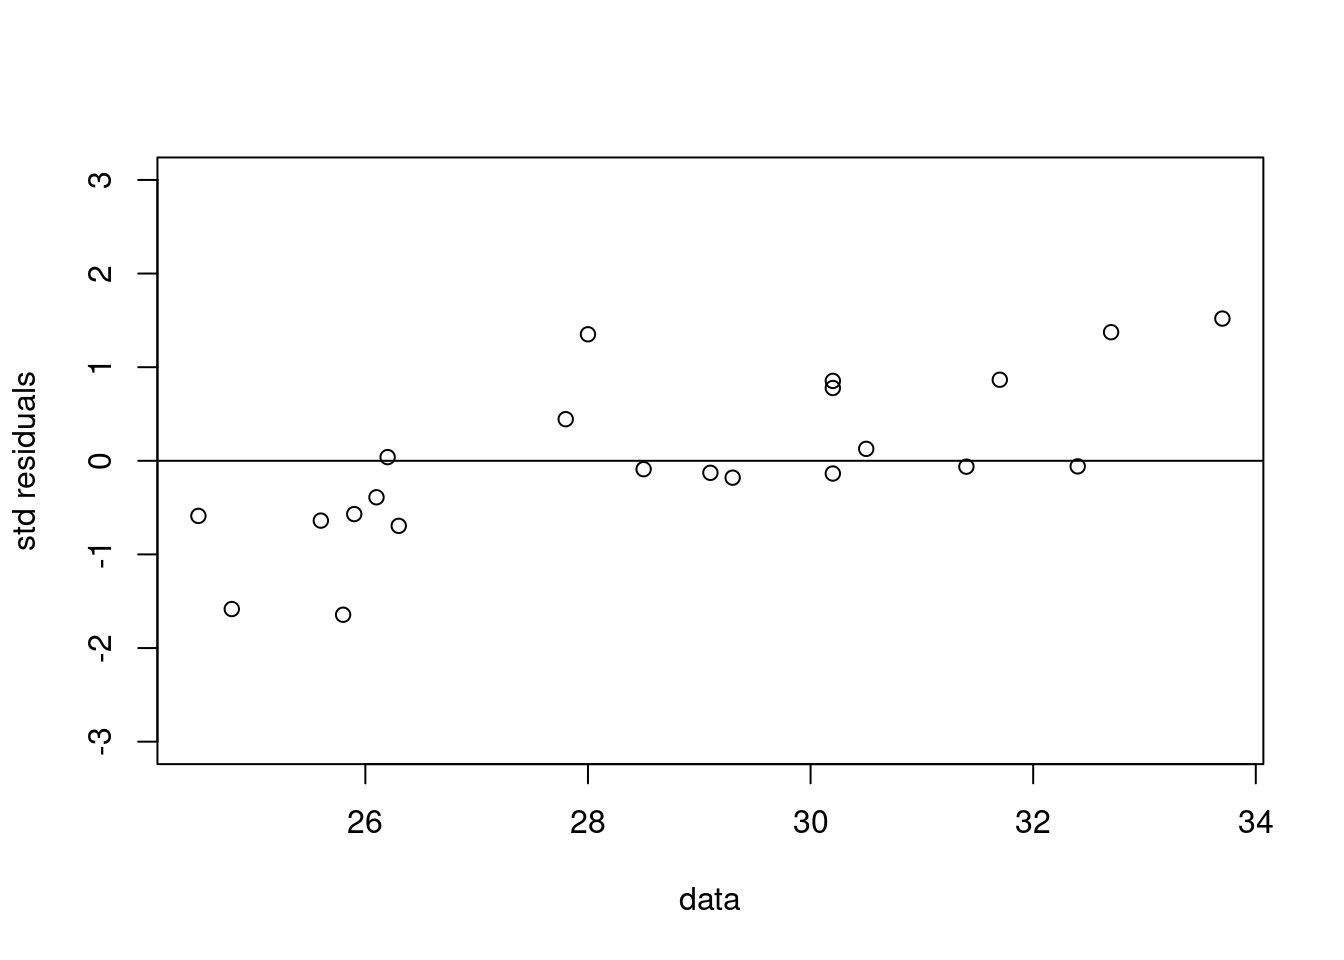
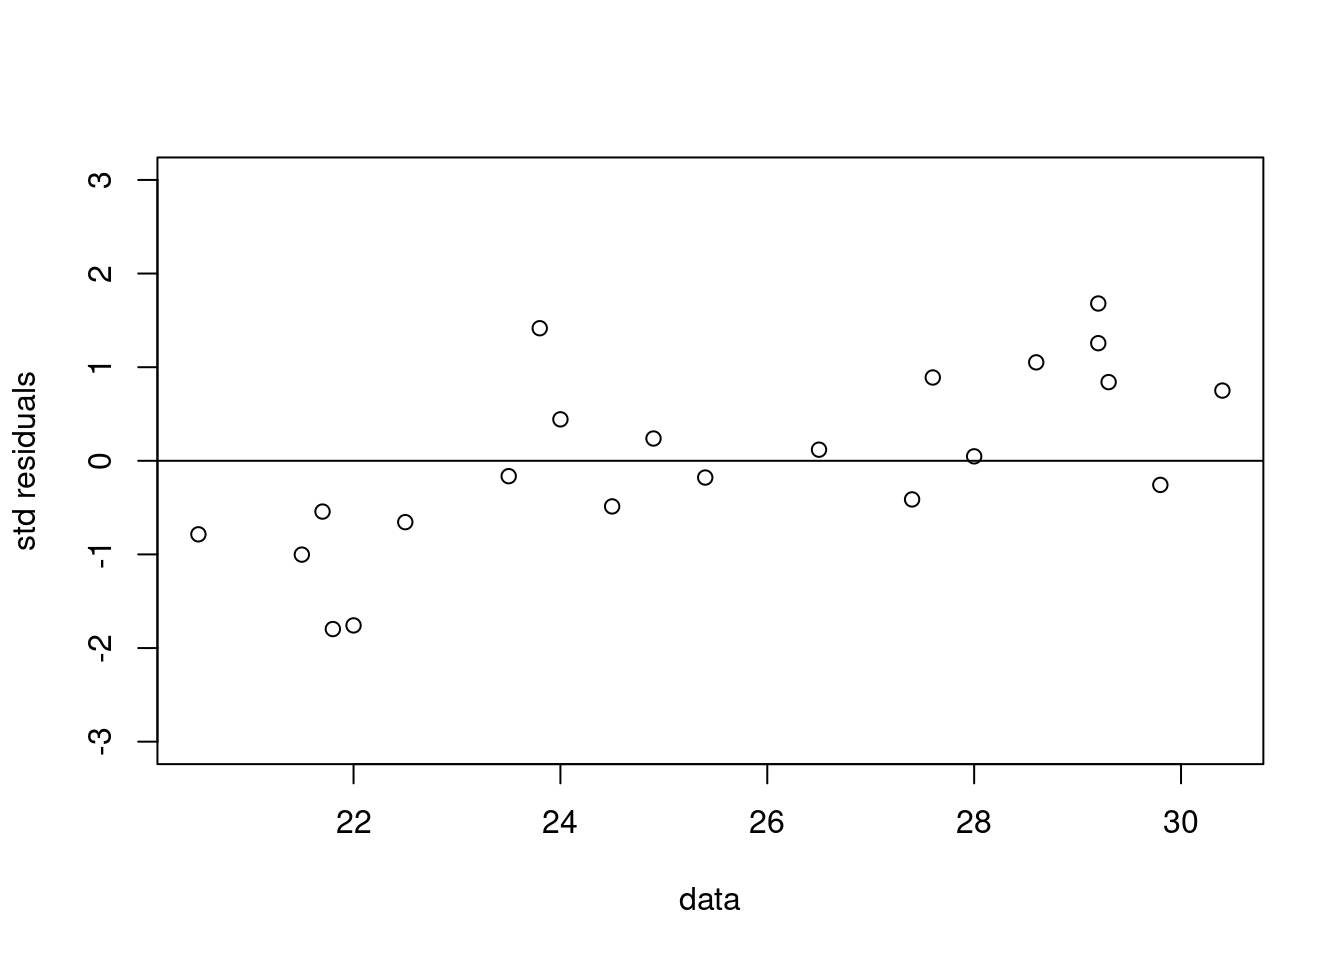
Cambio de fecha para buscar autocorrelación espacial.

diff --git a/trabajo_geoestadistica.html b/trabajo_geoestadistica.html
@@ -398,16 +398,16 @@ data:  df2$`Temp max`
 W = 0.90931, p-value = 0.04583</code></pre>
 </div>
 </div>
-<p>Dado que el valor p es de 4.955e-05, es tiene que la temperatura máxima en Antioquia registrada el 10 de Enero del 2019 no distribuye normal.</p>
+<p>Dado que el valor p es de 0.04583, es tiene que la temperatura máxima en Antioquia registrada el 10 de Enero del 2019 no distribuye normal.</p>
 <p>Ahora probamos con otra fecha para observar si los datos realmente en todas sus fechas no se acomodan a una distribución normal.</p>
 <section id="otros-datos" class="level3">
 <h3 class="anchored" data-anchor-id="otros-datos">Otros datos</h3>
-<p>Suponga los datos de otra fecha (<em>2019-03-10</em>) para la temperatura máxima.</p>
+<p>Suponga los datos de otra fecha (<em>2019-10-21</em>) para la temperatura máxima.</p>
 <p><strong>Gráfico descriptivo para observar estructura espacial:</strong></p>
 <div class="cell">
 <details open="">
 <summary>Código</summary>
-<div class="sourceCode cell-code" id="cb17"><pre class="sourceCode r code-with-copy"><code class="sourceCode r"><span id="cb17-1"><a href="#cb17-1" aria-hidden="true" tabindex="-1"></a>dt <span class="ot">&lt;-</span> dt0 <span class="sc">%&gt;%</span> <span class="fu">filter</span>(date <span class="sc">==</span> <span class="st">"2019-03-10"</span>) <span class="sc">%&gt;%</span> <span class="fu">na.omit</span>()</span>
+<div class="sourceCode cell-code" id="cb17"><pre class="sourceCode r code-with-copy"><code class="sourceCode r"><span id="cb17-1"><a href="#cb17-1" aria-hidden="true" tabindex="-1"></a>dt <span class="ot">&lt;-</span> dt0 <span class="sc">%&gt;%</span> <span class="fu">filter</span>(date <span class="sc">==</span> <span class="st">"2019-10-21"</span>) <span class="sc">%&gt;%</span> <span class="fu">na.omit</span>()</span>
 <span id="cb17-2"><a href="#cb17-2" aria-hidden="true" tabindex="-1"></a>dt <span class="ot">&lt;-</span> dt[<span class="sc">-</span><span class="fu">c</span>(<span class="dv">12</span>, <span class="dv">10</span>, <span class="dv">11</span>, <span class="dv">17</span>, <span class="dv">28</span>, <span class="dv">31</span>, <span class="dv">29</span>, <span class="dv">4</span>, <span class="dv">1</span>),]</span>
 <span id="cb17-3"><a href="#cb17-3" aria-hidden="true" tabindex="-1"></a></span>
 <span id="cb17-4"><a href="#cb17-4" aria-hidden="true" tabindex="-1"></a>datos <span class="ot">&lt;-</span> <span class="fu">as.matrix</span>(<span class="fu">data.frame</span>(<span class="at">x=</span><span class="fu">as.numeric</span>(dt<span class="sc">$</span>long),</span>
@@ -469,7 +469,7 @@ W = 0.90931, p-value = 0.04583</code></pre>
     Shapiro-Wilk normality test
 
 data:  df$`Temp max`
-W = 0.94793, p-value = 0.2872</code></pre>
+W = 0.92992, p-value = 0.1222</code></pre>
 </div>
 </div>
 <p>Al realizar la misma prueba de hipótesis sobre la variable de temperatura máxima pero de otra fecha se tienen datos normales.</p>
@@ -507,9 +507,9 @@ W = 0.94793, p-value = 0.2872</code></pre>
 <span id="cb23-7"><a href="#cb23-7" aria-hidden="true" tabindex="-1"></a></span>
 <span id="cb23-8"><a href="#cb23-8" aria-hidden="true" tabindex="-1"></a><span class="fu">par</span>(<span class="at">mfrow =</span> <span class="fu">c</span>(<span class="dv">1</span>,<span class="dv">2</span>))</span>
 <span id="cb23-9"><a href="#cb23-9" aria-hidden="true" tabindex="-1"></a></span>
-<span id="cb23-10"><a href="#cb23-10" aria-hidden="true" tabindex="-1"></a><span class="co"># (2019-03-10) [Normal]</span></span>
+<span id="cb23-10"><a href="#cb23-10" aria-hidden="true" tabindex="-1"></a><span class="co"># (2019-10-21) [Normal]</span></span>
 <span id="cb23-11"><a href="#cb23-11" aria-hidden="true" tabindex="-1"></a><span class="fu">plot</span>(<span class="at">x =</span> datosmatriz1<span class="sc">$</span>distancia1, <span class="at">y =</span> datosmatriz1<span class="sc">$</span>dif.prof,</span>
-<span id="cb23-12"><a href="#cb23-12" aria-hidden="true" tabindex="-1"></a>     <span class="at">main =</span> <span class="st">"2019-03-10 (Normal)"</span>, <span class="at">ylab =</span> <span class="st">"Diferencia en temperatura"</span>,</span>
+<span id="cb23-12"><a href="#cb23-12" aria-hidden="true" tabindex="-1"></a>     <span class="at">main =</span> <span class="st">"2019-10-21 (Normal)"</span>, <span class="at">ylab =</span> <span class="st">"Diferencia en temperatura"</span>,</span>
 <span id="cb23-13"><a href="#cb23-13" aria-hidden="true" tabindex="-1"></a>     <span class="at">xlab =</span> <span class="st">"Distancia (m)"</span>)</span>
 <span id="cb23-14"><a href="#cb23-14" aria-hidden="true" tabindex="-1"></a><span class="fu">abline</span>(<span class="fu">lm</span>(dif.prof<span class="sc">~</span>distancia1, <span class="at">data =</span> datosmatriz1), <span class="at">lwd =</span> <span class="dv">2</span>,</span>
 <span id="cb23-15"><a href="#cb23-15" aria-hidden="true" tabindex="-1"></a>       <span class="at">col =</span> <span class="st">"red"</span>)</span>
@@ -545,12 +545,12 @@ Mantel statistic based on Pearson's product-moment correlation
 Call:
 mantel(xdis = distancia1, ydis = dif.temp1, na.rm = T) 
 
-Mantel statistic r: 0.06296 
-      Significance: 0.222 
+Mantel statistic r: 0.1496 
+      Significance: 0.042 
 
 Upper quantiles of permutations (null model):
   90%   95% 97.5%   99% 
-0.109 0.150 0.177 0.198 
+0.104 0.140 0.178 0.219 
 Permutation: free
 Number of permutations: 999</code></pre>
 </div>
@@ -565,14 +565,14 @@ Number of permutations: 999</code></pre>
 <pre><code>Monte-Carlo test
 Call: mantelnoneuclid(m1 = m1, m2 = m2, nrepet = nrepet)
 
-Observation: 0.06296223 
+Observation: 0.1496266 
 
 Based on 999 replicates
-Simulated p-value: 0.24 
+Simulated p-value: 0.042 
 Alternative hypothesis: greater 
 
-    Std.Obs Expectation    Variance 
-0.678696134 0.002057063 0.008052997 </code></pre>
+     Std.Obs  Expectation     Variance 
+1.8241208422 0.0002735359 0.0067037993 </code></pre>
 </div>
 </div>
 <p>Con el test de Mantel se prueba que existe autocorrelación espacial; es decir, la temperatura es similar entre unidades geográficas próximas.</p>
@@ -617,8 +617,8 @@ Alternative hypothesis: greater
  1.396905205 -0.001539747  0.005133160 </code></pre>
 </div>
 </div>
-<p>Lamentablemente, en las dos fechas no se cumple el test de mantel, por lo cual se dice que para el día 2019-01-10 existe evidencia para <strong>no</strong> autocorrelación espacial.</p>
-<p>La hipótesis de autocorrelación espacial se vio afectada por la desviación ligera de normalidad, entonces se procede a trabajar con los datos del 2019-03-10 y se analizará la temperatura máxima (si es posible también la mínima) en antioquia para la fecha seleccionada.</p>
+<p>Lamentablemente, en las dos pruebas no se cumple el test de mantel, por lo cual se dice que para el día 2019-01-10 existe evidencia para <strong>no</strong> autocorrelación espacial.</p>
+<p>La hipótesis de autocorrelación espacial se vio afectada por la desviación ligera de normalidad, entonces se procede a trabajar con los datos del 2019-10-21 y se analizará la temperatura máxima (si es posible también la mínima) en antioquia para la fecha seleccionada.</p>
 <p>Ahora se procede a extraer empíricamente la distancia máxima para los semivariogramas.</p>
 <div class="cell">
 <details open="">
@@ -704,7 +704,7 @@ Alternative hypothesis: greater
 <span id="cb44-4"><a href="#cb44-4" aria-hidden="true" tabindex="-1"></a>             <span class="at">ylim =</span> <span class="fu">c</span>(<span class="dv">0</span>,<span class="dv">70</span>))</span></code><button title="Copiar al portapapeles" class="code-copy-button"><i class="bi"></i></button></pre></div>
 </details>
 <div class="cell-output cell-output-stdout">
-<pre><code>Test of spatial independence: p =  0.164 </code></pre>
+<pre><code>Test of spatial independence: p =  0.195 </code></pre>
 </div>
 <div class="cell-output-display">
 <p><img src="trabajo_geoestadistica_files/figure-html/unnamed-chunk-22-1.png" class="img-fluid" width="672"></p>
@@ -874,12 +874,12 @@ xvalid: end of cross-validation</code></pre>
 <div class="sourceCode cell-code" id="cb60"><pre class="sourceCode r code-with-copy"><code class="sourceCode r"><span id="cb60-1"><a href="#cb60-1" aria-hidden="true" tabindex="-1"></a><span class="fu">summary</span>(valid.krigo)</span></code><button title="Copiar al portapapeles" class="code-copy-button"><i class="bi"></i></button></pre></div>
 </details>
 <div class="cell-output cell-output-stdout">
-<pre><code>                Min.    1st Qu.      Median       Mean   3rd Qu.     Max.
-errors     -3.684257 -1.1275513 -0.18260580 0.12663424 1.6905133 3.718993
-std.errors -1.644220 -0.5242532 -0.07610748 0.02665075 0.6940602 1.519078
-                  sd
-errors     1.9718666
-std.errors 0.8537545</code></pre>
+<pre><code>                Min.    1st Qu.      Median      Mean   3rd Qu.     Max.
+errors     -3.675870 -1.0298969 -0.09482950 0.1341619 1.7769295 4.014368
+std.errors -1.796986 -0.5284779 -0.05831335 0.0314131 0.8178424 1.679985
+                 sd
+errors     2.024287
+std.errors 0.951569</code></pre>
 </div>
 </div>
 <div>
@@ -930,6 +930,13 @@ std.errors 0.8537545</code></pre>
 </div>
 </div>
 </div>
+<p>Según los resultados de la validación cruzada, se pueden sacar las siguientes conclusiones:</p>
+<ul>
+<li><p><strong>Sesgo (Mean):</strong> El sesgo promedio es de aproximadamente 0.134, lo que indica que, en promedio, el modelo de kriging ordinario tiende a sobreestimar ligeramente los valores de temperatura.</p></li>
+<li><p><strong>Error cuadrático medio (RMSE, sd):</strong> El error cuadrático medio es de aproximadamente 2.024, lo que indica la discrepancia promedio entre los valores observados y los valores predichos por el modelo. Un RMSE más bajo indica una mejor precisión del modelo.</p></li>
+<li><p><strong>Distribución de errores:</strong> Los errores en la validación cruzada varían desde -3.676 hasta 4.014. Los errores negativos indican que el modelo subestima la temperatura, mientras que los errores positivos indican sobreestimación. El rango y la desviación estándar (sd) de los errores muestran la dispersión de los errores en el conjunto de datos de validación.</p></li>
+</ul>
+<p>En general, los resultados de la validación cruzada indican que el modelo de kriging ordinario tiene cierto sesgo hacia la sobreestimación y muestra una discrepancia promedio de alrededor de 2.024 entre los valores observados y los valores predichos.</p>
 </section>
 </div>
 <div id="tabset-1-2" class="tab-pane" role="tabpanel" aria-labelledby="tabset-1-2-tab">
